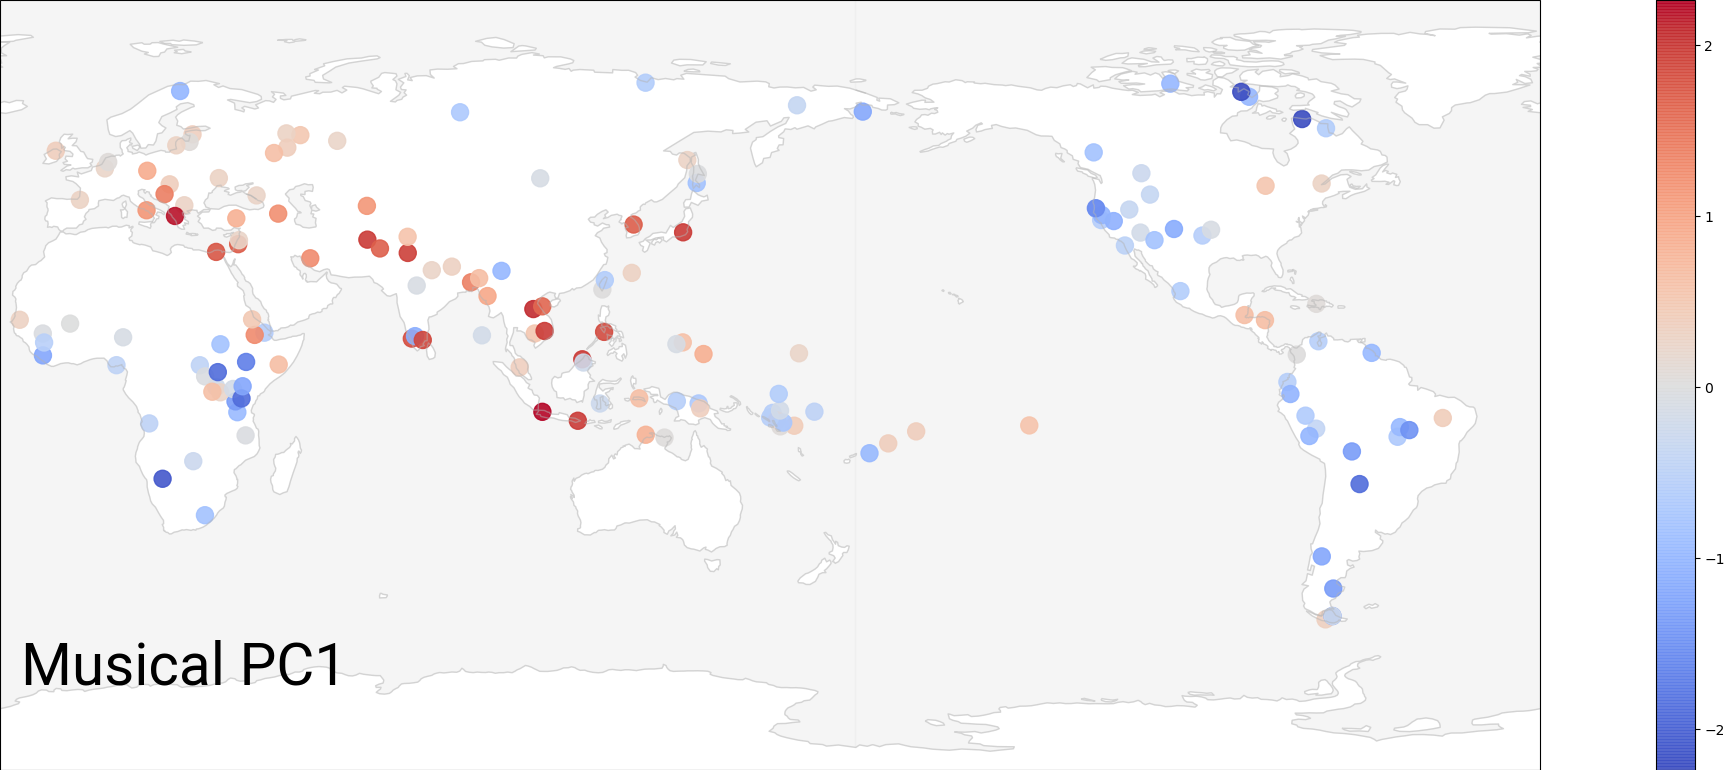
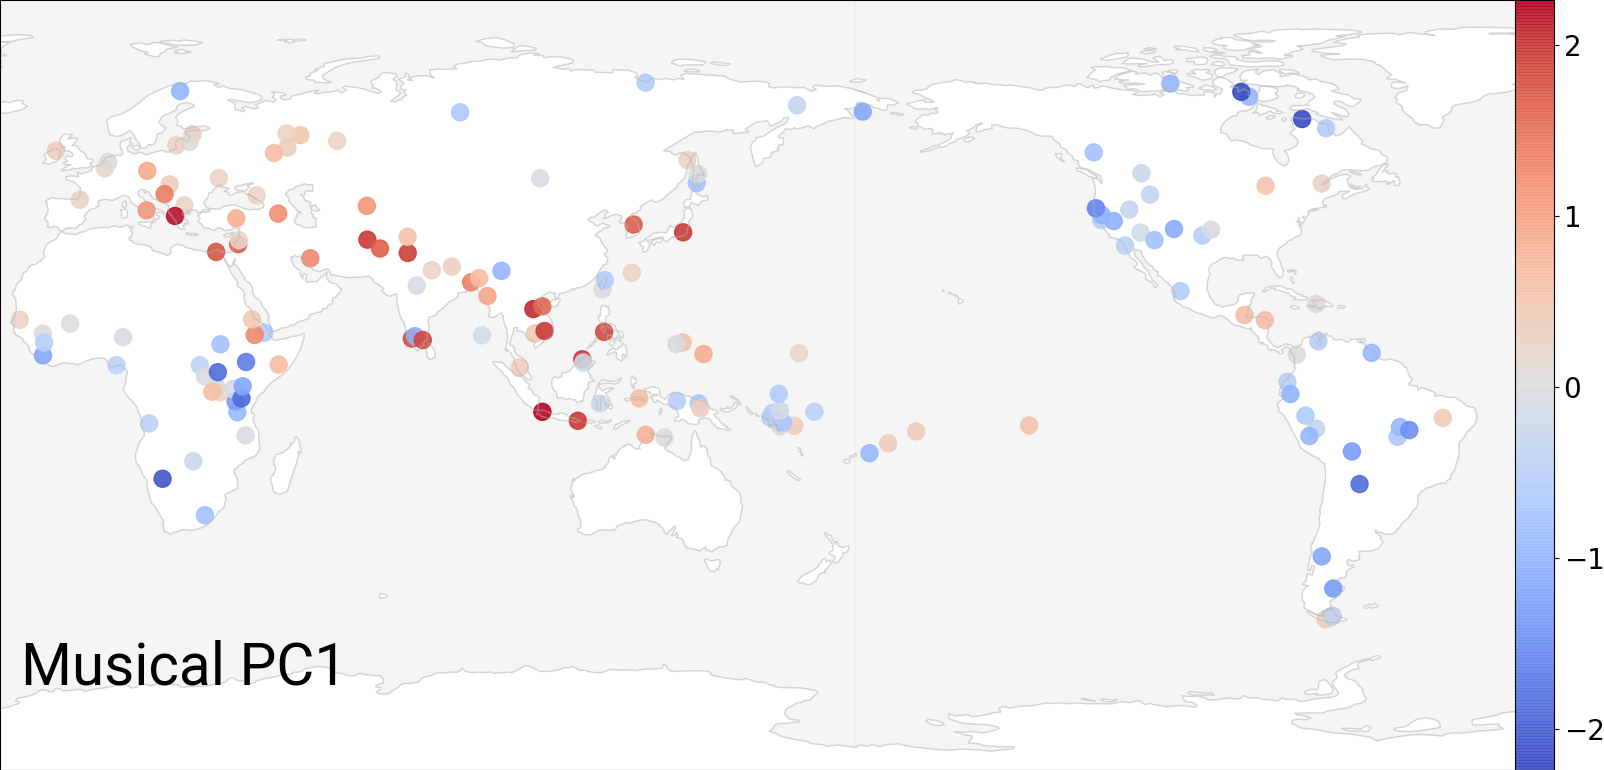
update pca plots

diff --git a/plot_maps.py b/plot_maps.py
@@ -1,5 +1,6 @@
 import pandas as pd
 import matplotlib.pyplot as plt
+from mpl_toolkits.axes_grid1.inset_locator import inset_axes
 import numpy as np
 import matplotlib.font_manager as font_manager
 import matplotlib.patches as mpatches
@@ -14,7 +15,6 @@ line_metadata = line_metadata.drop(columns='linenum')
 # Load conversion guide
 with open('./data/conversion_guide.json') as f:
   conversion_guide = json.load(f)
-ea = pd.read_csv('./data/ea_cantomtericsmodalprofiles_socialstrain.csv', index_col=0, na_values='NaN', keep_default_na=True).dropna()
 
 modal_profiles = pd.read_csv('./data/cantometrics_ethnographicatlas.csv', index_col=0)
 
@@ -40,7 +40,7 @@ def plot_pca_data(column_name, vname):
         else:
             x.append((float(row)+200)-345)
             
-    fig = plt.figure(figsize=(30,10))
+    fig = plt.figure(figsize=(25,10))
     projection=ccrs.PlateCarree(central_longitude=CENTRAL_LONGITUDE)
     ax = fig.add_subplot(1,1,1,projection=projection)
     ax.coastlines(alpha=.5, color="#B4B4B4")
@@ -56,7 +56,15 @@ def plot_pca_data(column_name, vname):
             sizes=(150,150))
 
     ax.add_feature(cfeature.OCEAN, alpha=.6, color="#EFEFEF") 
-    plt.colorbar(scatter)
+    axins = inset_axes(ax,
+                    width="2.5%",  
+                    height="100%",
+                    loc='right',
+                    borderpad=-1
+                   )
+    cbar = plt.colorbar(scatter, cax=axins, orientation="vertical")
+    for t in cbar.ax.get_yticklabels():
+     t.set_fontsize(20)
     plt.rcParams['legend.title_fontsize'] = 'x-large'
     plt.rc('font',family=font_family, weight='regular')
     plt.savefig(filename, bbox_inches = 'tight',pad_inches = 0)
@@ -128,70 +136,6 @@ def plot_cantometrics_data(linenum,vname):
 
     plt.rcParams['legend.title_fontsize'] = 'x-large'
     plt.rc('font',family=font_family, weight='regular')
-    plt.savefig(filename, bbox_inches = 'tight',pad_inches = 0)
-
-def plot_ea_data(line_title, color_name, vname):
-    ## Drop instances where there is no reading
-    stratification = ea
-
-    ## Map parameters
-    CENTRAL_LONGITUDE = 160.0
-    variable_name = vname
-    filename = './figs/'+vname.lower().replace(" ", "_")+'_social_strain.png'
-    font_family = "Roboto"
-    weight =  'normal'
-    alpha = 0.7
-
-    ## Project to co-ordinates
-    x,y = ([] for i in range(2))
-    for i, row in stratification['Society_latitude'].iteritems():
-        y.append(float(row))
-    for i, row in stratification['Society_longitude'].iteritems():
-        if float(row)+200 < 345:
-            x.append(float(row)+200)
-        else:
-            x.append((float(row)+200)-345)
-            
-    fig = plt.figure(figsize=(30,15))
-    projection=ccrs.PlateCarree(central_longitude=CENTRAL_LONGITUDE)
-    ax = fig.add_subplot(1,1,1,projection=projection)
-    ax.coastlines(alpha=.5, color="#B4B4B4")
-    ax.set_global()
-    ax.text(-175, -70, variable_name, fontsize=42, fontfamily=font_family, color="Black")
-    ax.text(-175, -78, line_title, fontsize=28, fontfamily=font_family, color="Black")
-
-    scatter = ax.scatter(x,  y,
-            c=stratification[color_name], 
-            alpha=alpha,
-            marker='o',
-            sizes = (150,150))
-
-    label_names = ['No slavery, class, or caste distinctions', 'Social layering score of one', 
-                'Social layering score of two','Social layering score of three to four','Social layering score of five to six']
-
-    colors = list(ea.stratification_col.unique())
-    order = [0, 4, 1, 3, 2]
-    colors = [colors[i] for i in order]
-
-    patch_1 = mpatches.Circle((0,0), radius=50, fc=colors[0], label=label_names[0])
-    patch_2 = mpatches.Circle((0,0), radius=50, fc=colors[1], label=label_names[1])
-    patch_3 = mpatches.Circle((0,0), radius=50, fc=colors[2], label=label_names[2])
-    patch_4 = mpatches.Circle((0,0), radius=50, fc=colors[3], label=label_names[3])
-    patch_5 = mpatches.Circle((0,0), radius=50, fc=colors[4], label=label_names[4])
-
-    plt.legend(handles=[patch_1, patch_2, patch_3, patch_4, patch_5],
-                        loc="lower right", 
-                        borderpad = 1,
-                        framealpha = 0.6,
-                        fontsize=15,
-                        title="Social Factors")
-
-
-    ax.add_feature(cfeature.OCEAN, alpha=.6, color="#EFEFEF") 
-
-    plt.rcParams['legend.title_fontsize'] = 'x-large'
-    plt.rc('font',family=font_family, weight=weight)
-    plt.savefig(filename, bbox_inches = 'tight',pad_inches = 0)
 
 if __name__ == '__main__':
     plot_pca_data('musical_pc1', 'Musical PC1')
